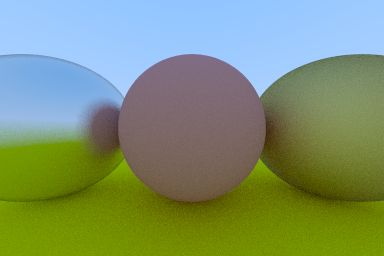
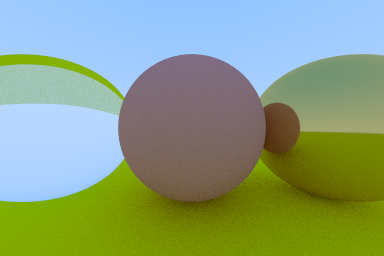
Added dieletrics (broken) program.

Changed region(s): [[0.0, 0.1875, 0.4062, 0.9062], [0.6562, 0.1875, 1.0, 0.8125], [0.7812, 0.7188, 0.8125, 0.75]]

diff --git a/README.md b/README.md
@@ -74,6 +74,14 @@ An implementation of the book [Ray Tracing in One Weekend](https://raytracing.gi
 
 [Link to Chapter 9](https://raytracing.github.io/books/RayTracingInOneWeekend.html#metal)
 
+### 7. Dieletrics
+
+![Image](./src/7_dieletrics/output.png)
+
+[Source code](./src/7_dieletrics/main.cpp)
+
+[Link to Chapter 10](https://raytracing.github.io/books/RayTracingInOneWeekend.html#dielectrics)
+
 ## Library
 
 Common functions and classes are refactored into the [raytrace library](./src/raytrace) and the [GraphicsMath](https://github.com/moddyz/GraphicsMath) project.
